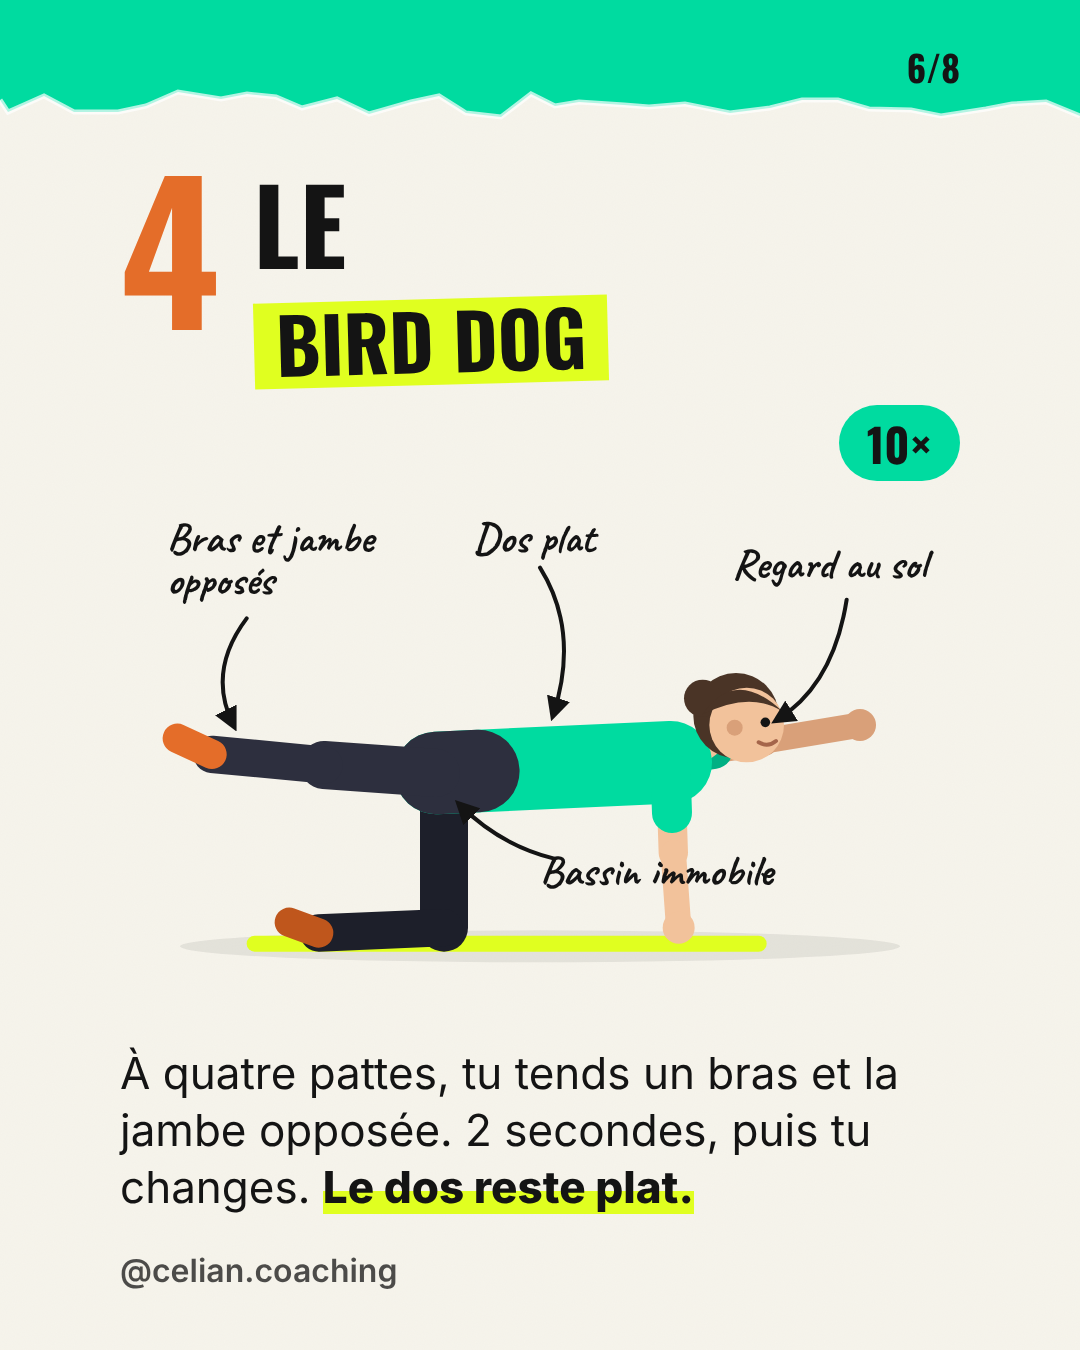
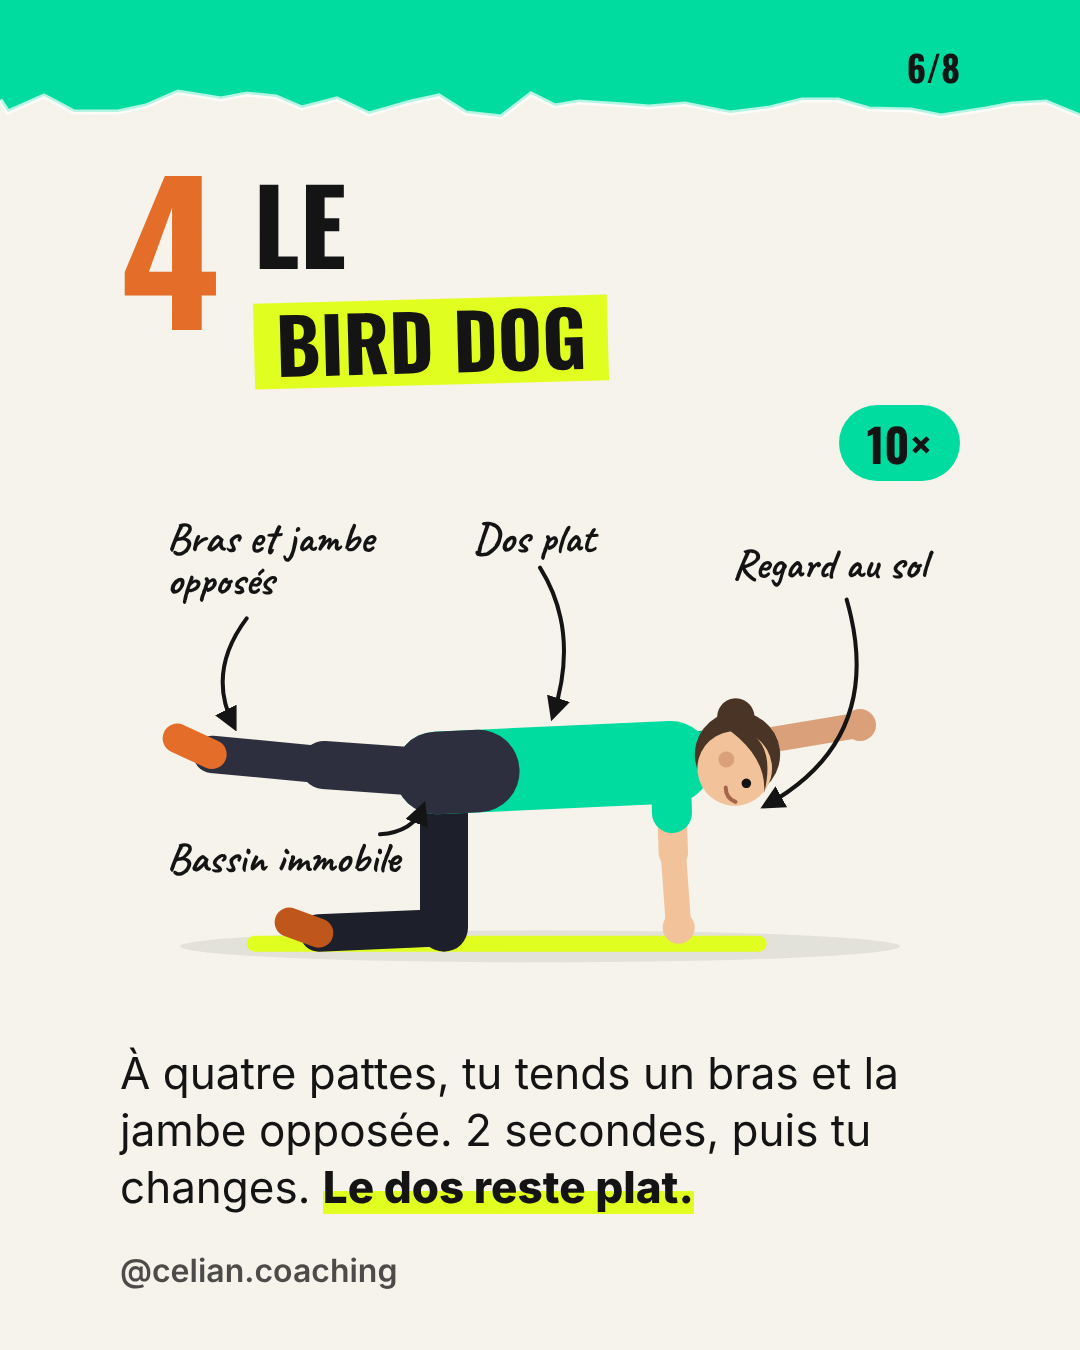
Carousel 01: bird dog looks at the floor
Claude-Session: https://claude.ai/code/session_01FGhLFD9YEZFa3cBNhyiNyx

diff --git a/.claude/instagram/carrousels/01-4-mouvements/slides.html b/.claude/instagram/carrousels/01-4-mouvements/slides.html
@@ -197,22 +197,22 @@ function bras(a, ombre) {
        + `<circle cx="${a.main[0]}" cy="${a.main[1]}" r="12" fill="${peau}"/>`
        + seg(a.epaule, lerp(a.epaule, a.coude, .5), 30, ombre ? C.hautO : C.haut);
 }
-function tete(t, dir) {
+function tete(t, dir, angle = 0) {
   const [x, y] = t;
-  return `<circle cx="${x - dir * 5}" cy="${y - 3}" r="32" fill="${C.cheveux}"/>`
+  return `<g transform="rotate(${angle} ${x} ${y})"><circle cx="${x - dir * 5}" cy="${y - 3}" r="32" fill="${C.cheveux}"/>`
        + `<circle cx="${x - dir * 30}" cy="${y - 16}" r="14" fill="${C.cheveux}"/>`
        + `<circle cx="${x + dir * 3}" cy="${y + 4}" r="28" fill="${C.peau}"/>`
        + `<path d="M${x - dir * 30} ${y - 4} Q ${x - dir * 6} ${y - 40} ${x + dir * 30} ${y - 6} Q ${x + dir * 6} ${y - 22} ${x - dir * 30} ${y - 4} Z" fill="${C.cheveux}"/>`
        + `<circle cx="${x - dir * 6}" cy="${y + 6}" r="6" fill="${C.peauO}"/>`
        + `<circle cx="${x + dir * 17}" cy="${y + 2}" r="3.6" fill="#141414"/>`
-       + `<path d="M${x + dir * 12} ${y + 17} q ${dir * 7} 4 ${dir * 13} -1" stroke="#a5654a" stroke-width="3" fill="none" stroke-linecap="round"/>`;
+       + `<path d="M${x + dir * 12} ${y + 17} q ${dir * 7} 4 ${dir * 13} -1" stroke="#a5654a" stroke-width="3" fill="none" stroke-linecap="round"/></g>`;
 }
 function personne(p) {
   return jambe(p.jambeLoin, true) + bras(p.brasLoin, true)
        + seg(p.cou, lerp(p.cou, p.tete, .6), 18, C.peau)
        + seg(p.hanche, p.epaule, 62, C.haut)
        + seg(p.hanche, lerp(p.hanche, p.epaule, .18), 62, C.bas)
-       + jambe(p.jambe, false) + bras(p.bras, false) + tete(p.tete, p.dir);
+       + jambe(p.jambe, false) + bras(p.bras, false) + tete(p.tete, p.dir, p.angle);
 }
 // texte manuscrit (une ou deux lignes) + flèche courbe
 function note(x, y, lignes, de, vers, ctrl, ancre = 'start') {
@@ -273,7 +273,7 @@ const POSES = {
     box: '10 170 570 240',
     decor: () => ombreSol(30, 570) + tapis(80, 470),
     p: {
-      dir: 1, hanche: [222, 276], epaule: [398, 268], cou: [420, 260], tete: [452, 236],
+      dir: 1, angle: 60, hanche: [222, 276], epaule: [398, 268], cou: [418, 266], tete: [448, 268],
       jambe: { hanche: [222, 276], genou: [138, 270], cheville: [54, 262], pied: [28, 250] },
       jambeLoin: { hanche: [228, 284], genou: [228, 392], cheville: [134, 396], pied: [112, 388] },
       bras: { epaule: [398, 276], coude: [400, 336], main: [404, 392] },
@@ -281,8 +281,8 @@ const POSES = {
     },
     notes: () => note(250, 110, ['Dos plat'], [300, 122], [310, 232], [330, 170])
       + note(20, 110, ['Bras et jambe', 'opposés'], [80, 160], [70, 240], [50, 200])
-      + note(590, 130, ['Regard au sol'], [530, 146], [478, 236], [520, 210], 'end')
-      + note(300, 360, ['Bassin immobile'], [310, 340], [240, 300], [270, 330]),
+      + note(590, 130, ['Regard au sol'], [530, 146], [470, 300], [560, 250], 'end')
+      + note(20, 350, ['Bassin immobile'], [180, 322], [212, 302], [205, 320]),
   },
 };
 
